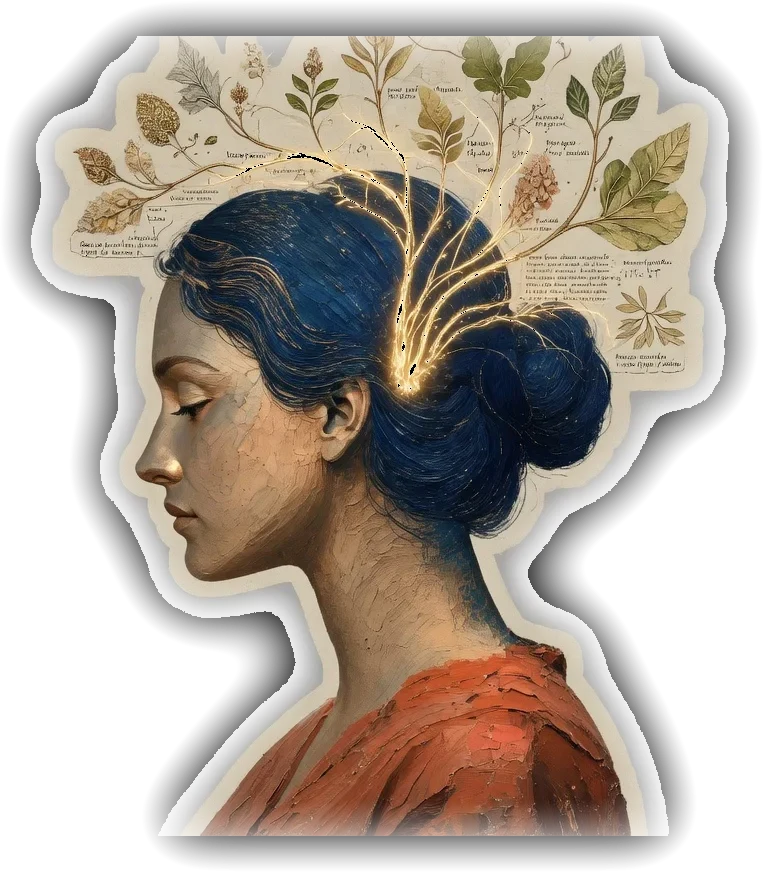
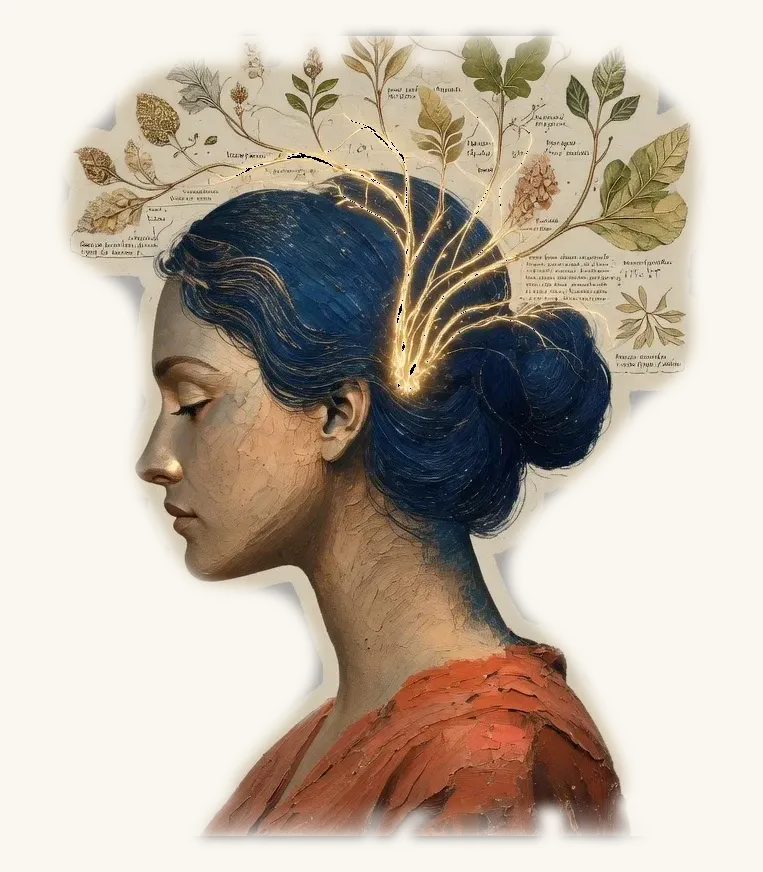
fix: remove sticker-matte halo on homepage collage cutouts
hero-figure.webp and hero-object.webp carried a light gray die-cut
matte ring baked into the RGB channel around their alpha edge (visible
as a hard white sticker outline against the warm paper field, plus a
boxed/shadowed look once composited on the collage stage). Recolored
the ring region toward --rr-paper so it disappears into the page
background regardless of residual alpha, and softened the per-layer
drop-shadow filters in painterly-hero.css that were compounding the
die-cut appearance.

Verified locally by compositing both assets over the paper color and
comparing against the Hydroponics study reference and the site's own
ph-single assets (why-operator, coverage-catalog), which already
achieve a clean dissolve.

Root cause + fix direction documented in the eds-renderaissance skill
(field-lessons.md §11).

Changed region(s): [[0.0, 0.0, 0.9948, 0.9908]]

diff --git a/blocks/painterly-hero/painterly-hero.css b/blocks/painterly-hero/painterly-hero.css
@@ -131,7 +131,7 @@
   height: 100%;
   object-fit: contain;
   object-position: right bottom;
-  filter: drop-shadow(0 14px 22px rgb(34 49 95 / 12%));
+  filter: drop-shadow(0 6px 10px rgb(34 49 95 / 6%));
 }
 
 /* 3) Object sits ON the same stage — bottom-left, overlapping wash + figure feet */
@@ -148,7 +148,7 @@
   width: 100%;
   height: auto;
   display: block;
-  filter: drop-shadow(0 10px 16px rgb(34 49 95 / 10%));
+  filter: drop-shadow(0 4px 8px rgb(34 49 95 / 5%));
 }
 
 .painterly-hero .ph-layer img {